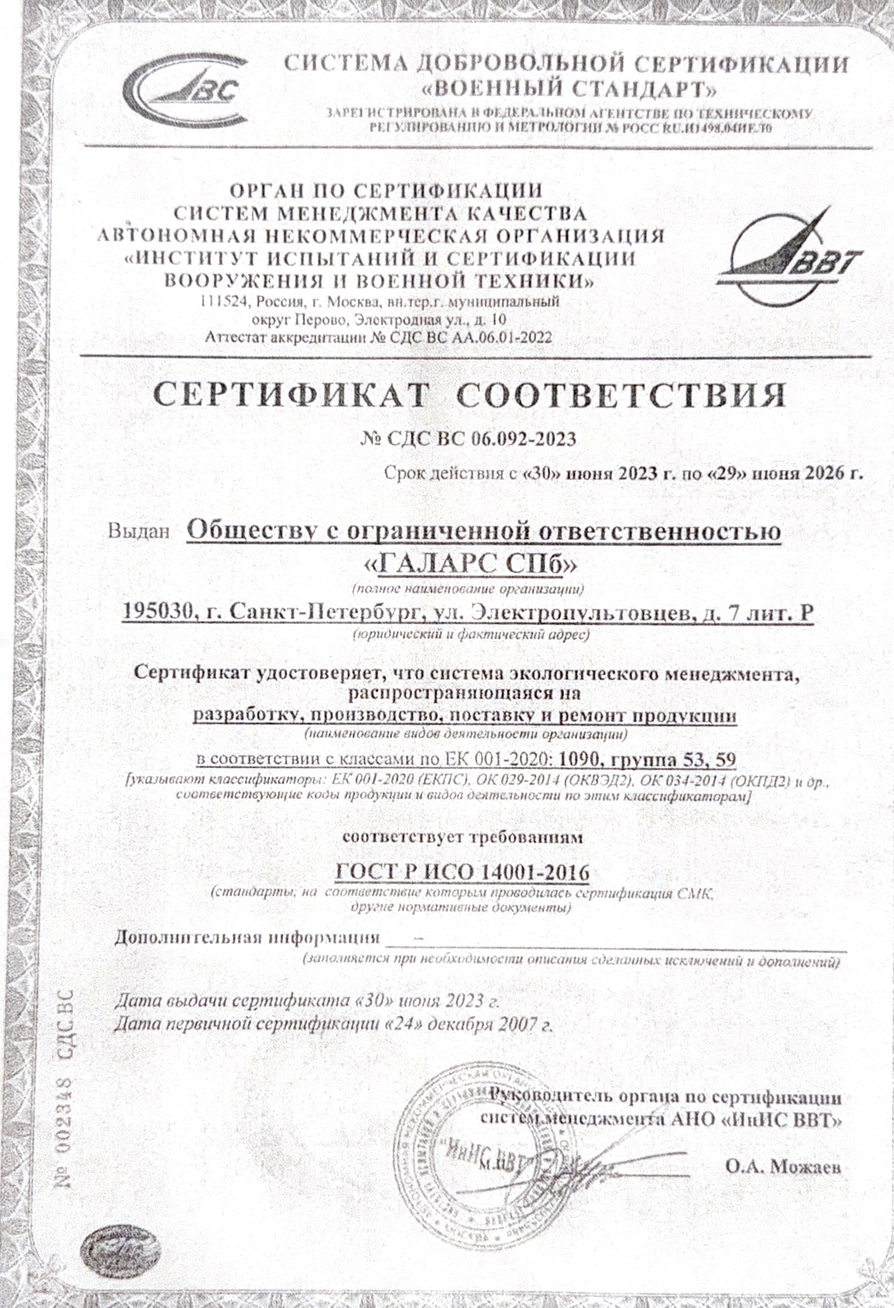
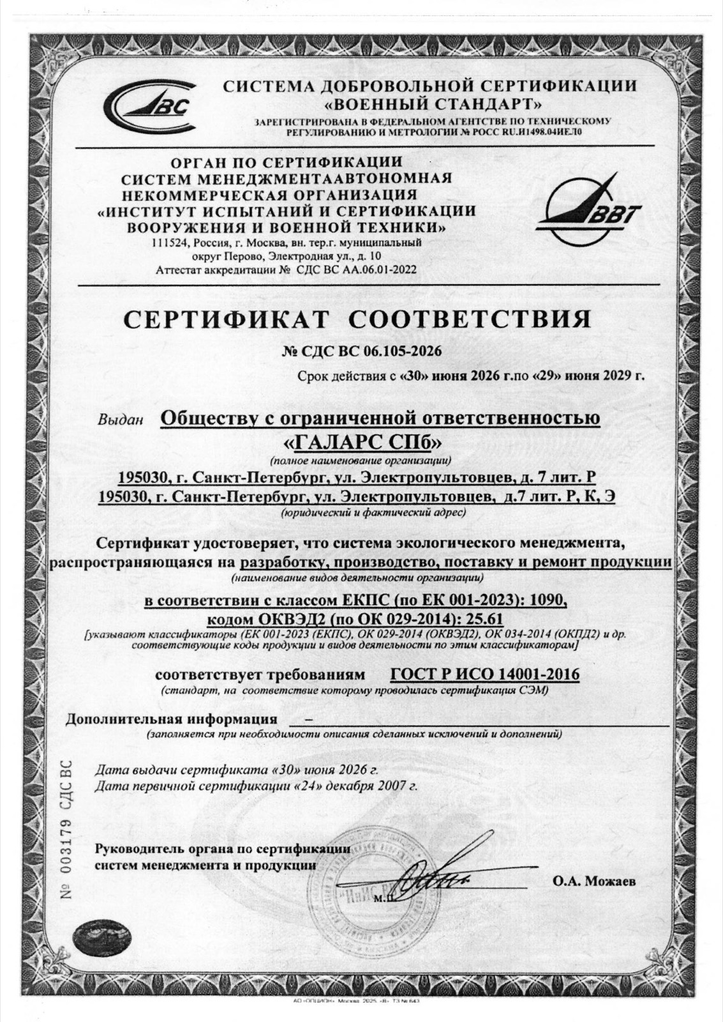
Сертификаты обновлены на новые (продлены до 2029)
СМК № СДС ВС 01.2564-2026 (17.08.2026 — 16.08.2029, ГОСТ Р ИСО 9001-2015
и ГОСТ РВ 0015-002-2020) и СЭМ № СДС ВС 06.105-2026 (30.06.2026 —
29.06.2029, ГОСТ Р ИСО 14001-2016). Заменены сканы, подпись под ними
«действуют до 2029 г.», в хронологии «О компании» снята устаревшая
фраза про 2026 и добавлено продление.

diff --git a/about.html b/about.html
@@ -346,7 +346,7 @@
         <div class="tl-body">
           <div class="tag">ПОДТВЕРЖДЕНИЕ СМК + ЭКОЛОГИЯ</div>
           <h3 data-e="about#14">ГОСТ РВ 0015-002-2020 и ГОСТ Р ИСО 14001-2016</h3>
-          <p data-e="about#15">Подтверждена сертификация СМК по ГОСТ Р ИСО 9001-2015 и ГОСТ РВ 0015-002-2020 (Военный стандарт). Дополнительно сертифицирована система экологического менеджмента по ГОСТ Р ИСО 14001-2016. Оба сертификата действуют до 2026 года.</p>
+          <p data-e="about#15">Подтверждена сертификация СМК по ГОСТ Р ИСО 9001-2015 и ГОСТ РВ 0015-002-2020 (Военный стандарт). Дополнительно сертифицирована система экологического менеджмента по ГОСТ Р ИСО 14001-2016.</p>
         </div>
       </div>
       <div class="tl-row">
@@ -363,6 +363,7 @@
           <div class="tag">СЕГОДНЯ</div>
           <h3 data-e="about#18">Ввод участка химического оксидирования (электропроводного)</h3>
           <p data-e="about#19">Введён в эксплуатацию новый участок электропроводного химического оксидирования алюминия — покрытие для деталей приборостроения и электротехники с требованиями к проводимости в местах контакта.</p>
+          <p data-e="about#19b">В этом же году продлены оба сертификата «Военного стандарта»: система менеджмента качества — до 16 августа 2029 года, система экологического менеджмента — до 29 июня 2029 года.</p>
         </div>
       </div>
     </div>

diff --git a/index.html b/index.html
@@ -1393,7 +1393,7 @@
             <div class="cert-name">ГОСТ Р ИСО 14001-2016<br>Экологический менеджмент</div>
           </a>
         </div>
-        <div class="certs-note">СИСТЕМА ДОБРОВОЛЬНОЙ СЕРТИФИКАЦИИ «ВОЕННЫЙ СТАНДАРТ» · ДЕЙСТВУЮТ ДО 2026 Г.</div>
+        <div class="certs-note">СИСТЕМА ДОБРОВОЛЬНОЙ СЕРТИФИКАЦИИ «ВОЕННЫЙ СТАНДАРТ» · ДЕЙСТВУЮТ ДО 2029 Г.</div>
       </div>
     </div>
 
